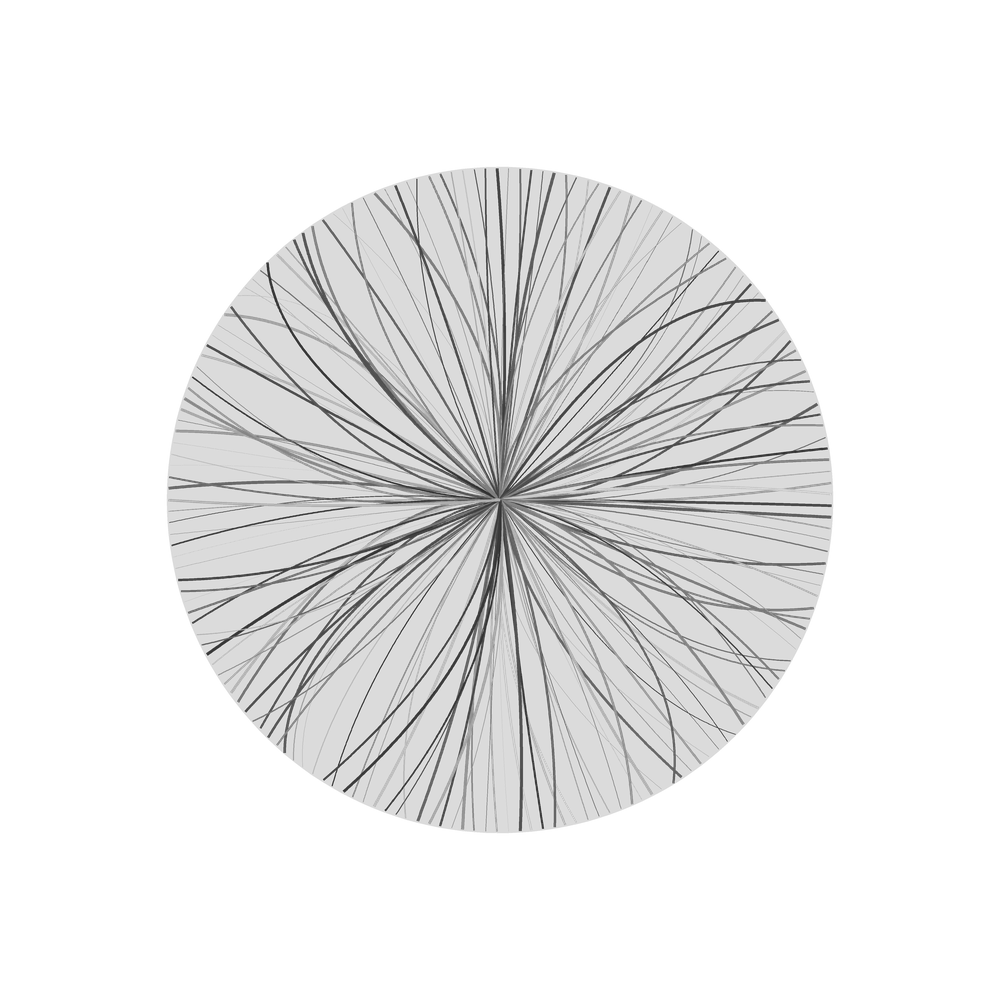
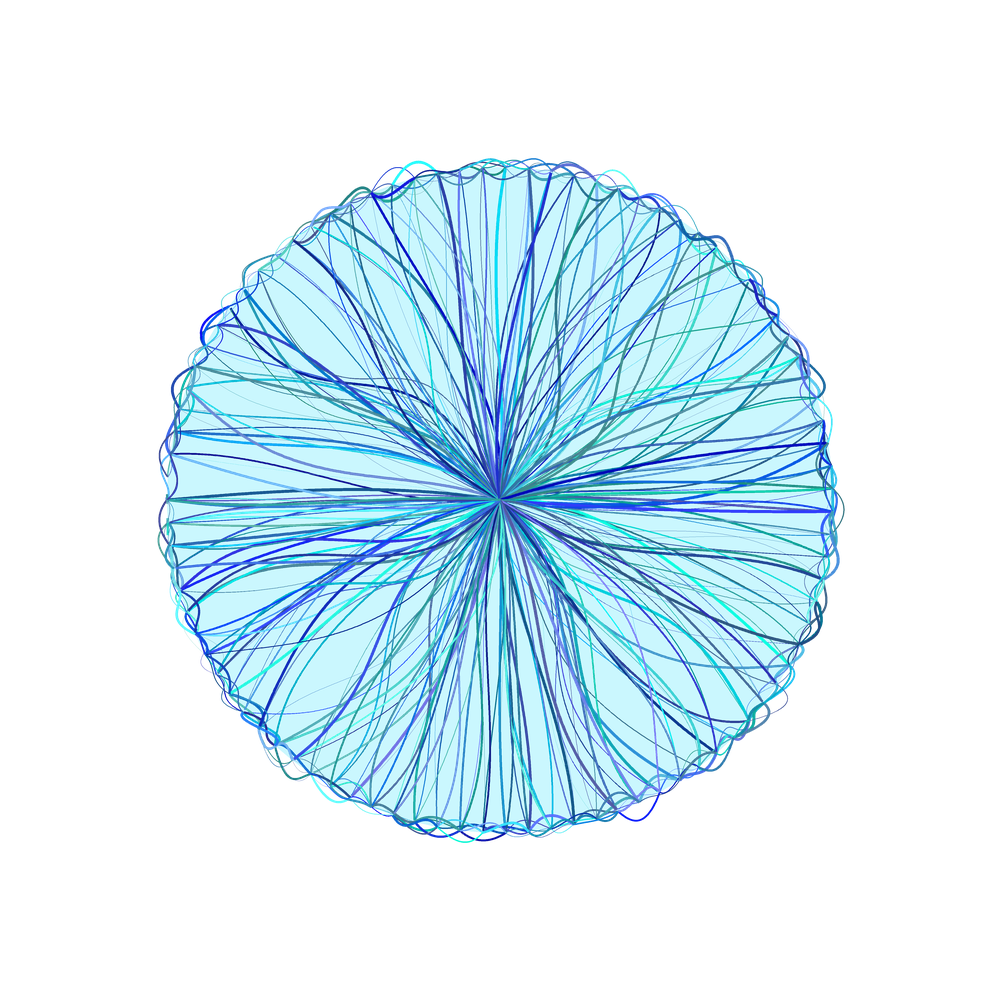
updated rays

diff --git a/curve_rays.py b/curve_rays.py
@@ -22,11 +22,23 @@ class Rays(ArtGenerator):
         self.points = n_shape(self.center, rays_num, radius * 5)
 
     def main(self, dots=False, centered=False, draw=True):
-        for point in self.points:
+        step = 2
+        for i, point in enumerate(self.points):
+            try:
+                end = self.points[i + step]
+            except IndexError:
+                end = self.points[i]
+            self.points_func = lambda: points_along_line(image=self.image,
+                                                         points_num=self.points_num,
+                                                         start=point,
+                                                         end=end,
+                                                         box=self.box)
+            super().main(centered=centered)
+
             self.points_func = lambda: points_along_line(image=self.image,
                                                          points_num=self.points_num,
                                                          start=self.center,
-                                                         end=point,
+                                                         end=end,
                                                          box=self.box)
             super().main(centered=centered)
 
@@ -36,7 +48,8 @@ class Rays(ArtGenerator):
         polygon_image = Image.new('RGBA', self.image.size, (0, 0, 0, 0))
         polygon_color = add_transparency(self.color(), random.randint(10, 30) / 100)
 
-        ImageDraw.Draw(polygon_image).polygon(self.points, fill=polygon_color)
+        points = [tuple(i) for i in self.points]
+        ImageDraw.Draw(polygon_image).polygon(points, fill=polygon_color)
 
         self.image = Image.alpha_composite(polygon_image, self.image)
 
@@ -46,11 +59,11 @@ if __name__ == '__main__':
 
     img = Rays(size=size,
                center=(size // 2, size // 2),
-               rays_num=181,
-               points_num=2,
+               rays_num=91,
+               points_num=3,
                radius=size // 3,
-               steps=1,
-               color=random_gray,
+               steps=3,
+               color=random_blue,
                width=lambda: random.randint(1, 15),
                box=True)
 

diff --git a/spiral.py b/spiral.py
@@ -24,12 +24,15 @@ def kaleidoscope(size, start, radius, angle, smoothness, color, width,
         offset_y=offset_y
     )
 
+    start = spiral.start
     for i in range(0, 360, step):
         spiral.angle = step * i
         spiral.color = color()
         spiral.width = width()
-        spiral.radius += random.randint(5, 50)
-        spiral.off_y = random.randint(1, 10)
+        spiral.radius += 5
+        #spiral.start[0] += random.randint(1, 10)
+        #spiral.start[1] += random.randint(1, 10)
+        # spiral.off_y = random.randint(1, 10)
 
         spiral.draw(image)
 
@@ -37,16 +40,16 @@ def kaleidoscope(size, start, radius, angle, smoothness, color, width,
 
 
 if __name__ == '__main__':
-    angle = random.randint(10, 60)
+    angle = random.randint(1, 60)
 
     spiral = kaleidoscope(
         size=1000,
         start=(500, 500),
-        radius=100,
+        radius=200,
         angle=angle,
         smoothness=100,
-        color=random_red,
-        width=lambda: 5,
+        color=random_pastel,
+        width=lambda: random.randint(1, 2),
         offset_x=2,
         offset_y=10
     )

diff --git a/tools/image_utils.py b/tools/image_utils.py
@@ -112,6 +112,14 @@ def spiral_points(center, smoothness, radius, offset, numpy=False):
     return points
 
 
+def spiral_from_center(center, num, rotation, length):
+    """TODO: Creates spiral points from given center."""
+    angle = 360 // num
+    x = cos(rotation) * length
+    y = sin(rotation) * length
+    pass
+
+
 def points_distance(p1, p2):
     """Calculates distance between two points."""
     x1, y1 = p1

diff --git a/curvature.py b/curvature.py
@@ -52,7 +52,7 @@ if __name__ == '__main__':
                           points_num=25,
                           start=start,
                           end=end,
-                          color=random_blue,
+                          color=random_green,
                           color_change=True,
                           width=lambda: random.randint(1, 15),
                           draw_rect=True,

diff --git a/curve_star.py b/curve_star.py
@@ -35,10 +35,10 @@ class Star(ArtGenerator):
 if __name__ == '__main__':
     art = Star(
         size=1000,
-        rays_num=9,
+        rays_num=11,
         width=lambda: random.randint(1, 5),
         color=random_blue,
-        steps=50,
+        steps=100,
         bend=2,
         radius=300,
         box=True,
